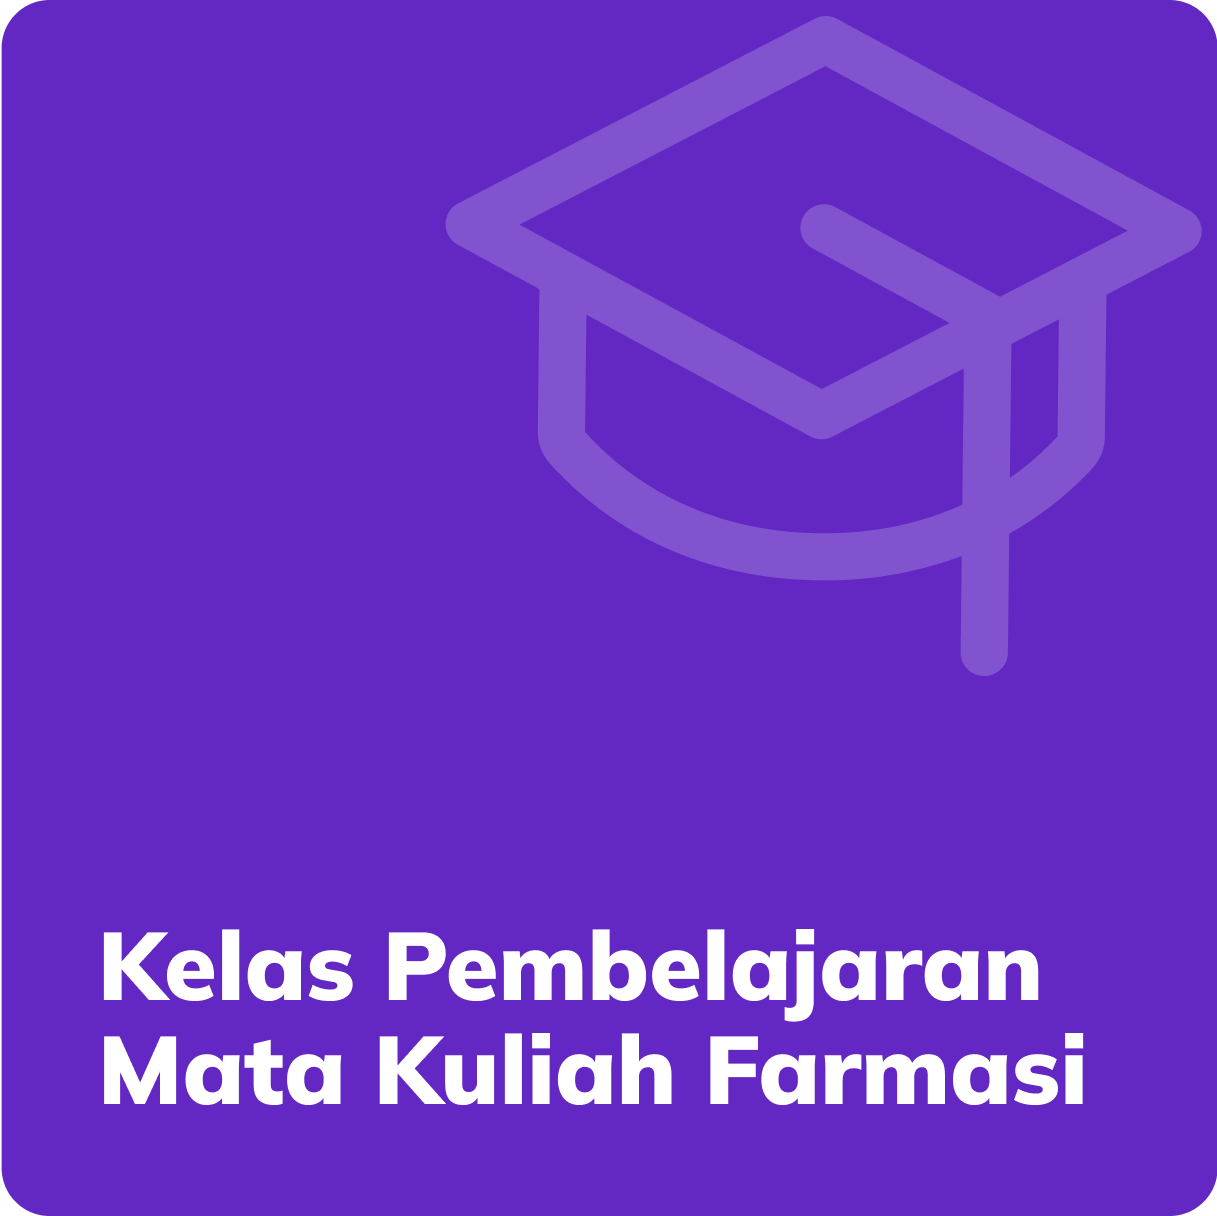
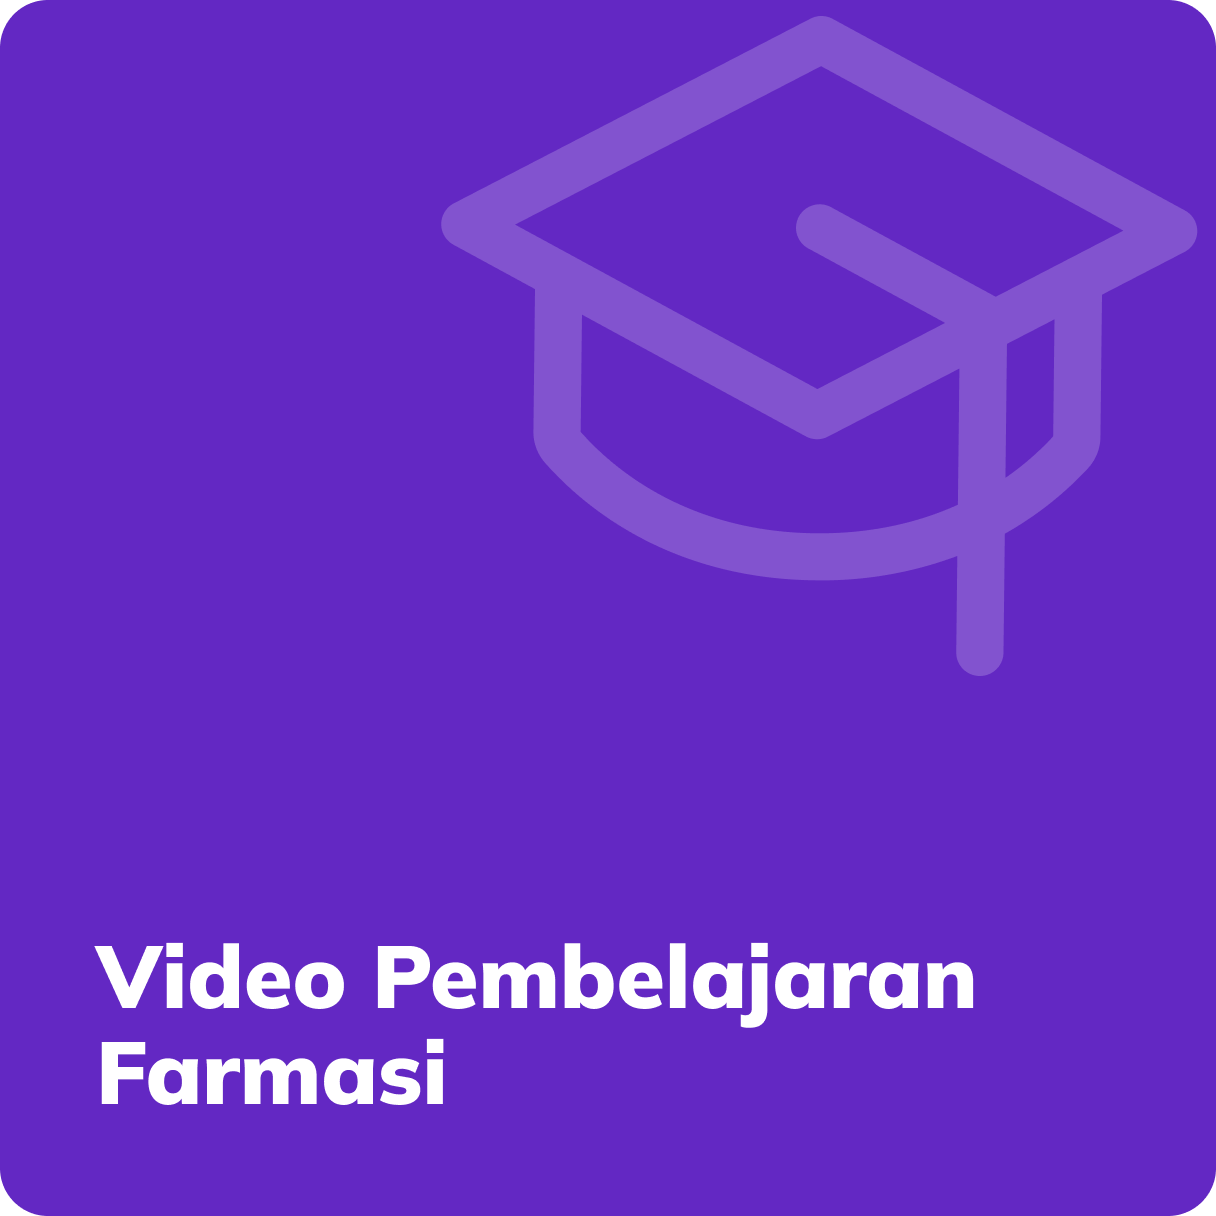
adjustment text on landing & classes section

diff --git a/pages/index.tsx b/pages/index.tsx
@@ -86,10 +86,9 @@ export default function HomePage({
               <p className="font-medium leading-[170%] text-gray">
                 Ruang Obat merupakan platform Bimbel Private Farmasi No. 1 yang
                 telah memfasilitasi 10.000+ Mahasiswa Farmasi di seluruh
-                Indonesia. Terdapat berbagai kelas menarik untuk semua jenjang
-                pendidikan, antara lain: Kelas Mata Kuliah, Kelas Skripsi
-                Farmasi, Kelas Riset Farmasi, Kelas Masuk Apoteker & OSCE, dan
-                Tryout UKMPPAI.
+                Indonesia. Terdapat berbagai kelas menarik untSumatifa jenjang
+                pendidikan, antara lain: Video Pembelajaran Farmasi, Persiapan
+                Skripsi & Riset, Masuk Apoteker, OSCE dan UKMPPAI Sumatif
               </p>
               <p className="font-medium leading-[170%] text-gray">
                 Di website ini kalian dapat mengakses berbagai program. Mari
@@ -185,7 +184,7 @@ export default function HomePage({
 
             <div className="grid max-w-[600px] gap-4 justify-self-end">
               <h1 className="text-[36px] font-black capitalize leading-[120%] -tracking-wide text-black xs:text-[42px]">
-                Kelas Farmasi No. 1 di Indonesia |{" "}
+                Bimbel Farmasi No. 1 di Indonesia |{" "}
                 <span className="bg-purple px-2 py-0 text-white">
                   Fasilitasi 10.000+
                 </span>{" "}
@@ -194,8 +193,8 @@ export default function HomePage({
               <p className="font-medium leading-[170%] text-gray">
                 Dapatkan{" "}
                 <strong className="font-extrabold text-purple">
-                  Akses Video Mata Kuliah, Persiapan Skripsi & Riset, Masuk
-                  Apoteker, dan Tryout UKMPPAI
+                  Akses Video Pembelajaran Farmasi, Persiapan Skripsi & Riset,
+                  Masuk Apoteker, OSCE dan UKMPPAI Sumatif
                 </strong>{" "}
                 untuk membantu kamu meraih gelar Sarjana Farmasi & Apoteker
               </p>

diff --git a/config/site.ts b/config/site.ts
@@ -43,9 +43,9 @@ export const siteConfigHomePage = {
   classes: [
     {
       id: 1,
-      title: "Kelas Pembelajaran Mata Kuliah Farmasi",
+      title: "Video Pembelajaran Farmasi",
       image: "/img/products/product-1.png",
-      path: "/kelas-pembelajaran-matkul-farmasi",
+      path: "/kelas-video-pembelajaran-farmasi",
     },
     {
       id: 2,
